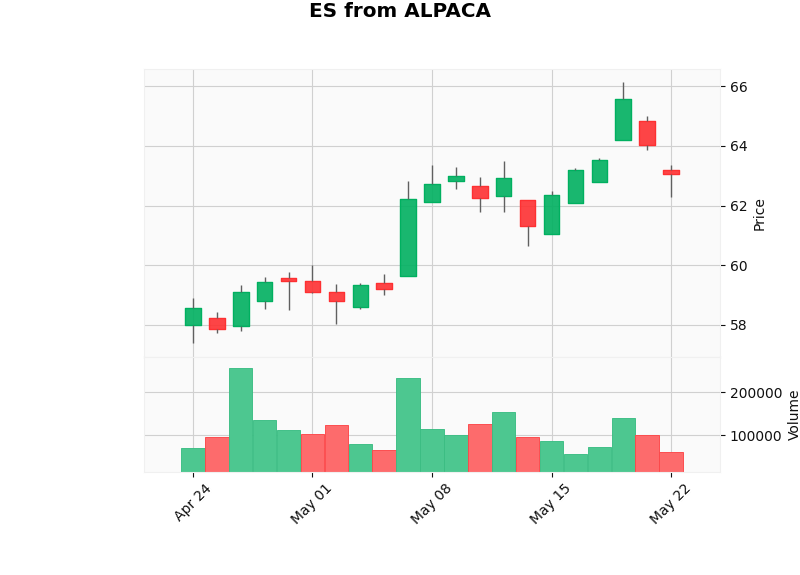
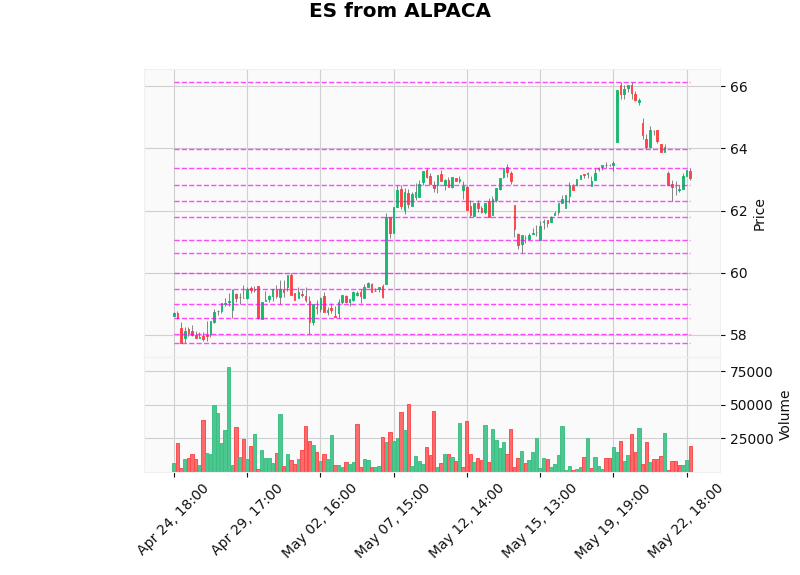
Implemented PivotLevel overlays

diff --git a/classes/ChartPlotter.py b/classes/ChartPlotter.py
@@ -3,6 +3,7 @@ import mplfinance as mpf
 from typing import Optional
 from classes.Logger import logger
 import os
+from typing import List, Any
 
 class ChartPlotter:
     @staticmethod
@@ -16,7 +17,8 @@ class ChartPlotter:
         show_volume: bool = True,
         chart_type: str = "candle",
         output_base: str = "output",
-        output_subdir: str = "charts"  # Default folder for full chart output
+        output_subdir: str = "charts",
+        overlays: Optional[List[Any]] = None  # Default folder for full chart output
     ):
         """
         Plots OHLC data using mplfinance.
@@ -68,13 +70,15 @@ class ChartPlotter:
             mpf.plot(
                 df,
                 type=chart_type,
-                volume=show_volume and 'volume' in df.columns,
+                volume=show_volume and "volume" in df.columns,
                 title=title,
-                style='yahoo',
+                style="yahoo",
+                addplot=overlays if overlays else [],
                 savefig=file_path
             )
 
-            
+            logger.info("Chart saved to %s", file_path)
+
         except IndexError:
             logger.warning("IndexError: No data points in filtered date range (%s to %s)", start, end)
             raise ValueError(f"No data available in the date range {start} to {end}.")

diff --git a/main.py b/main.py
@@ -12,6 +12,8 @@ import yaml
 from classes.indicators.LevelsIndicator        import LevelsIndicator      # daily & H4
 from classes.indicators.MarketProfileIndicator import DailyMarketProfileIndicator
 from classes.indicators.VWAPIndicator          import VWAPIndicator
+from classes.indicators.PivotLevelOverlay import PivotLevelOverlay
+
 # add your TrendlineIndicator etc. here
 # ---------------------------------------
 
@@ -27,7 +29,7 @@ DataLoader.ensure_schema()
 symbol = "ES"
 start_date = "2025-04-01"
 end_date = "2025-05-23"
-interval = "1d"
+interval = "1h"
 
 yahoo_provider = YahooFinanceProvider()
 # DataLoader.ingest_history("symbol", yahoo_provider, days=30, interval="1d")
@@ -36,6 +38,7 @@ alpaca_provider = AlpacaProvider()
 DataLoader.ingest_history(symbol, alpaca_provider, days=30, interval=interval)
 
 df = alpaca_provider.get_ohlcv(symbol=symbol, start=start_date, end=end_date, interval=interval)
+overlays = PivotLevelOverlay(df, lookbacks=[2, 5, 10, 15]).to_overlays(color="magenta")
 
 logger.debug(df)
 ChartPlotter.plot_ohlc(
@@ -44,7 +47,9 @@ ChartPlotter.plot_ohlc(
     symbol=symbol,
     datasource=alpaca_provider.get_datasource(),
     start=start_date,
-    end=end_date
+    end=end_date,
+    show_volume=True,
+    overlays=overlays
 )
 
 

diff --git a/classes/indicators/PivotLevelOverlay.py b/classes/indicators/PivotLevelOverlay.py
@@ -1,0 +1,35 @@
+from typing import List
+import pandas as pd
+from classes.PivotDetector import PivotDetector
+from mplfinance.plotting import make_addplot
+
+class PivotLevelOverlay:
+    def __init__(self, df: pd.DataFrame, lookbacks=(10, 20, 50), threshold=0.005):
+        self.df = df
+        self.lookbacks = lookbacks
+        self.threshold = threshold
+        self.levels = self._compute_levels()
+
+    def _compute_levels(self) -> List[float]:
+        detector = PivotDetector(self.df, self.lookbacks, self.threshold)
+        pivot_map = detector.detect_all()
+
+        # flatten and deduplicate within threshold
+        raw = []
+        for highs, lows in pivot_map.values():
+            raw.extend([p for _, p in highs])
+            raw.extend([p for _, p in lows])
+        raw = sorted(raw)
+
+        unique_levels = []
+        for lvl in raw:
+            if not unique_levels or abs(lvl - unique_levels[-1]) / lvl > self.threshold:
+                unique_levels.append(lvl)
+
+        return unique_levels
+
+    def to_overlays(self, color: str = "gray") -> List:
+        return [
+            make_addplot(pd.Series(level, index=self.df.index), color=color, linestyle='--', width=1, alpha=0.7)
+            for level in self.levels
+        ]

diff --git a/classes/indicators/LevelsIndicator.py b/classes/indicators/LevelsIndicator.py
@@ -6,6 +6,7 @@ from typing import List
 import numpy as np
 import pandas as pd
 from typing import Dict, Tuple, List
+from mplfinance.plotting import make_addplot
 
 
 ARTIFACT_ROOT = Path("artifacts")
@@ -71,8 +72,15 @@ class _BaseLevelsIndicator(BaseIndicator):
         file = folder / f"levels_{self.label}.png"
         fig.savefig(file, dpi=300, bbox_inches="tight", facecolor="black")
         plt.close(fig)
-        return file
 
+    def to_overlay(self, color: str = "gray") -> List:
+        if self.result is None:
+            self.compute()
+        overlays = []
+        for lvl in self.levels:
+            line = pd.Series(lvl, index=self.df.index)
+            overlays.append(make_addplot(line, color=color, linestyle='--', linewidth=1, alpha=0.7))
+        return overlays
 
 class LevelsIndicator(BaseIndicator):
     NAME = "levels"

diff --git a/classes/PivotDetector.py b/classes/PivotDetector.py
@@ -21,11 +21,11 @@ class PivotDetector:
 
         for i in range(lookback, len(self.df) - lookback):
             current = self.df.index[i]
-            high = self.df.at[current, 'High']
-            low = self.df.at[current, 'Low']
+            high = self.df.at[current, 'high']
+            low = self.df.at[current, 'low']
 
-            high_range = self.df['High'].iloc[i - lookback:i + lookback + 1].drop(labels=[current])
-            low_range = self.df['Low'].iloc[i - lookback:i + lookback + 1].drop(labels=[current])
+            high_range = self.df['high'].iloc[i - lookback:i + lookback + 1].drop(labels=[current])
+            low_range = self.df['low'].iloc[i - lookback:i + lookback + 1].drop(labels=[current])
 
             if high > high_range.max() and not is_near_existing(high):
                 highs.append((current, high))
